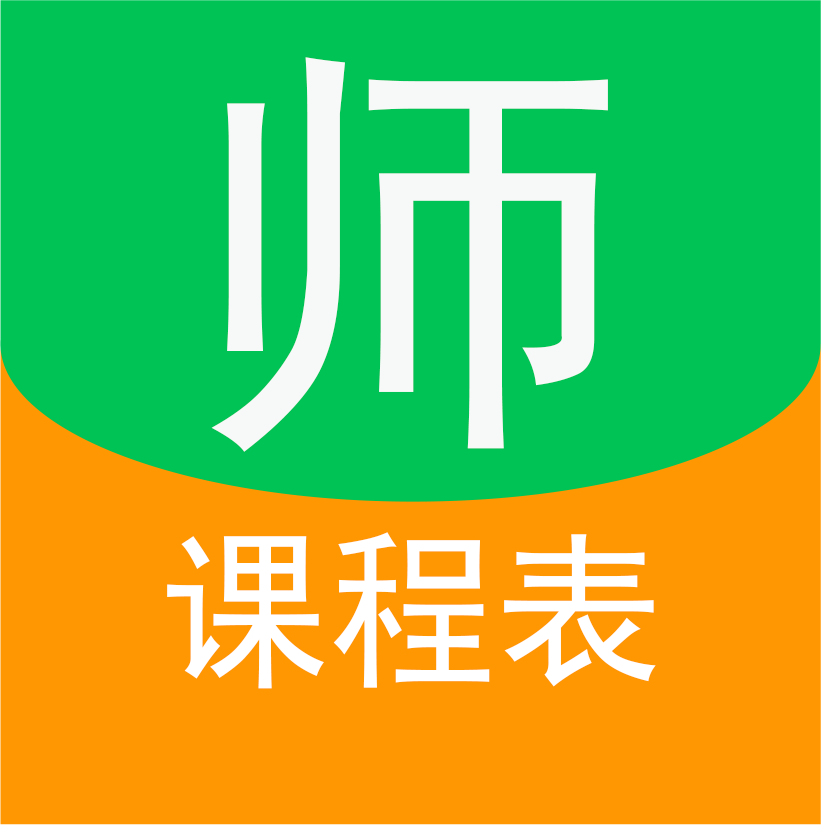
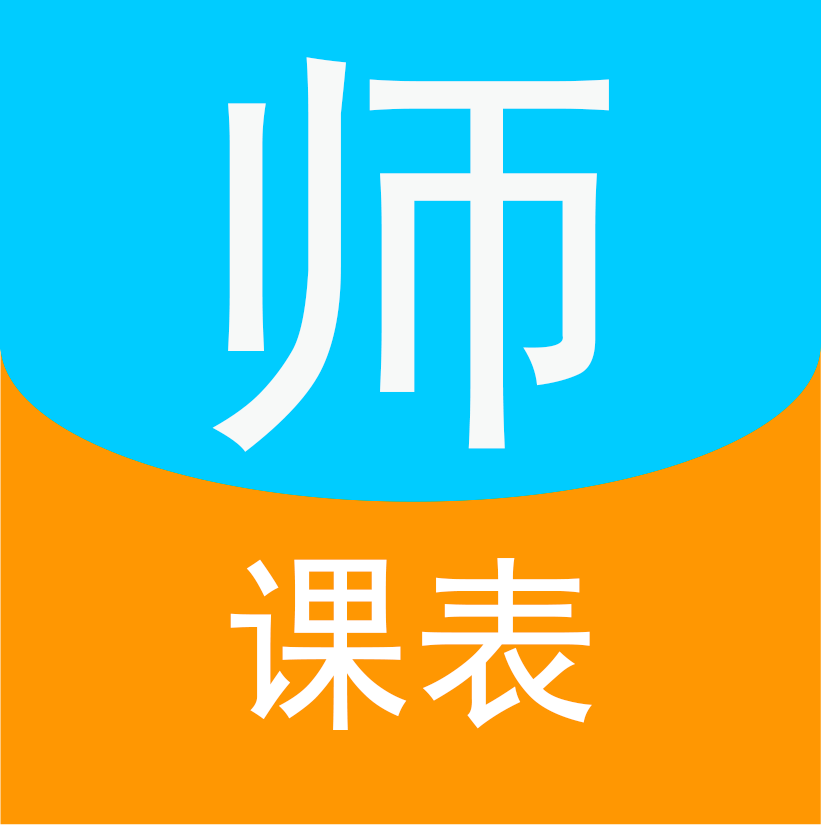
朋友圈增加产品介绍分享功能，换图片
rt

diff --git a/pages/video.js b/pages/video.js
@@ -21,7 +21,13 @@ Page({
   onReady: function () {
 
   },
-
+  onShareTimeline: function(res){
+    return {
+      title: '教师课表小程序功能介绍',
+      query: '/pages/video',
+      imageUrl: "/static/kcb.png"//自定义图片路径，可以是本地文件路径、代码包文件路径或者网络图片路径。支持PNG及JPG。显示图片长宽比是 5:4。
+    }
+  },
   /**
    * 生命周期函数--监听页面显示
    */
@@ -61,7 +67,23 @@ Page({
   /**
    * 用户点击右上角分享
    */
-  onShareAppMessage: function () {
+  onShareAppMessage: function (ops) {
+    if (ops.from === 'button') {
+      // 来自页面内转发按钮
+      console.log(ops.target)
+    }
+    return {
+      title: "教师课表小程序功能介绍",
+      path: 'pages/video',
+      success: function (res) {
+        // 转发成功
+        console.log("转发成功:" + JSON.stringify(res));
+      },
+      fail: function (res) {
+        // 转发失败
+        console.log("转发失败:" + JSON.stringify(res));
+      }
+    }
 
   }
 })
